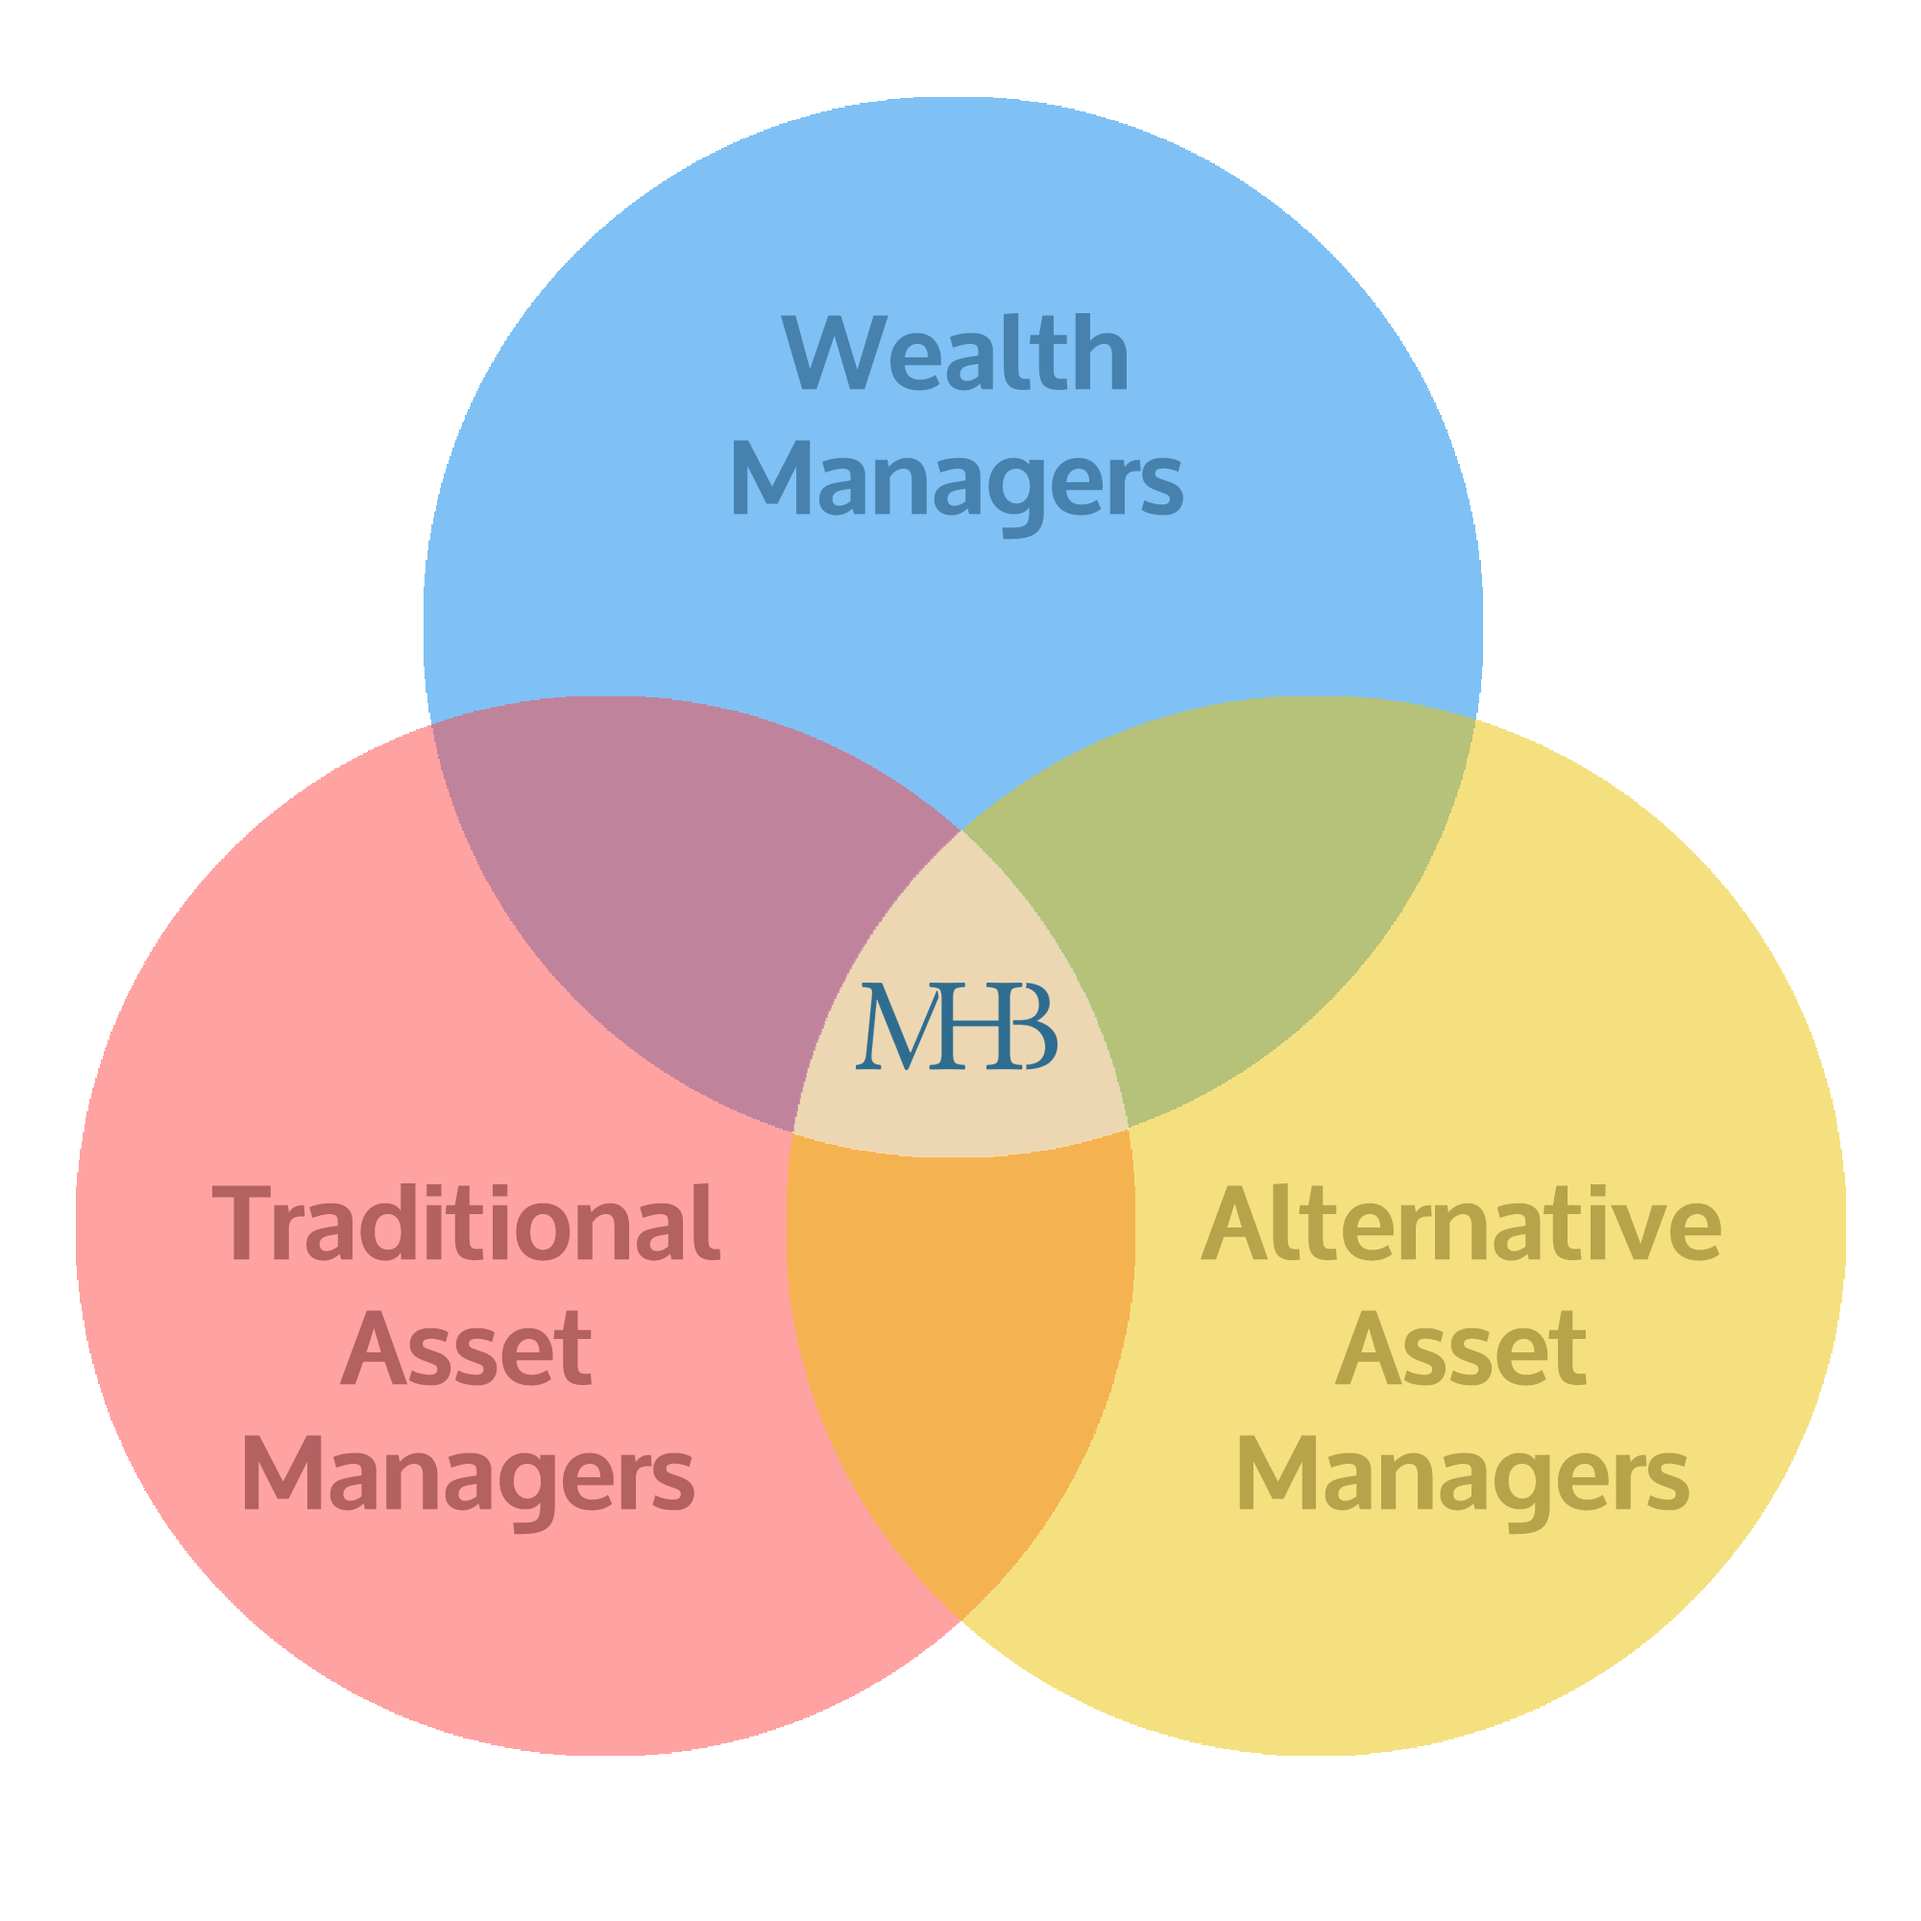
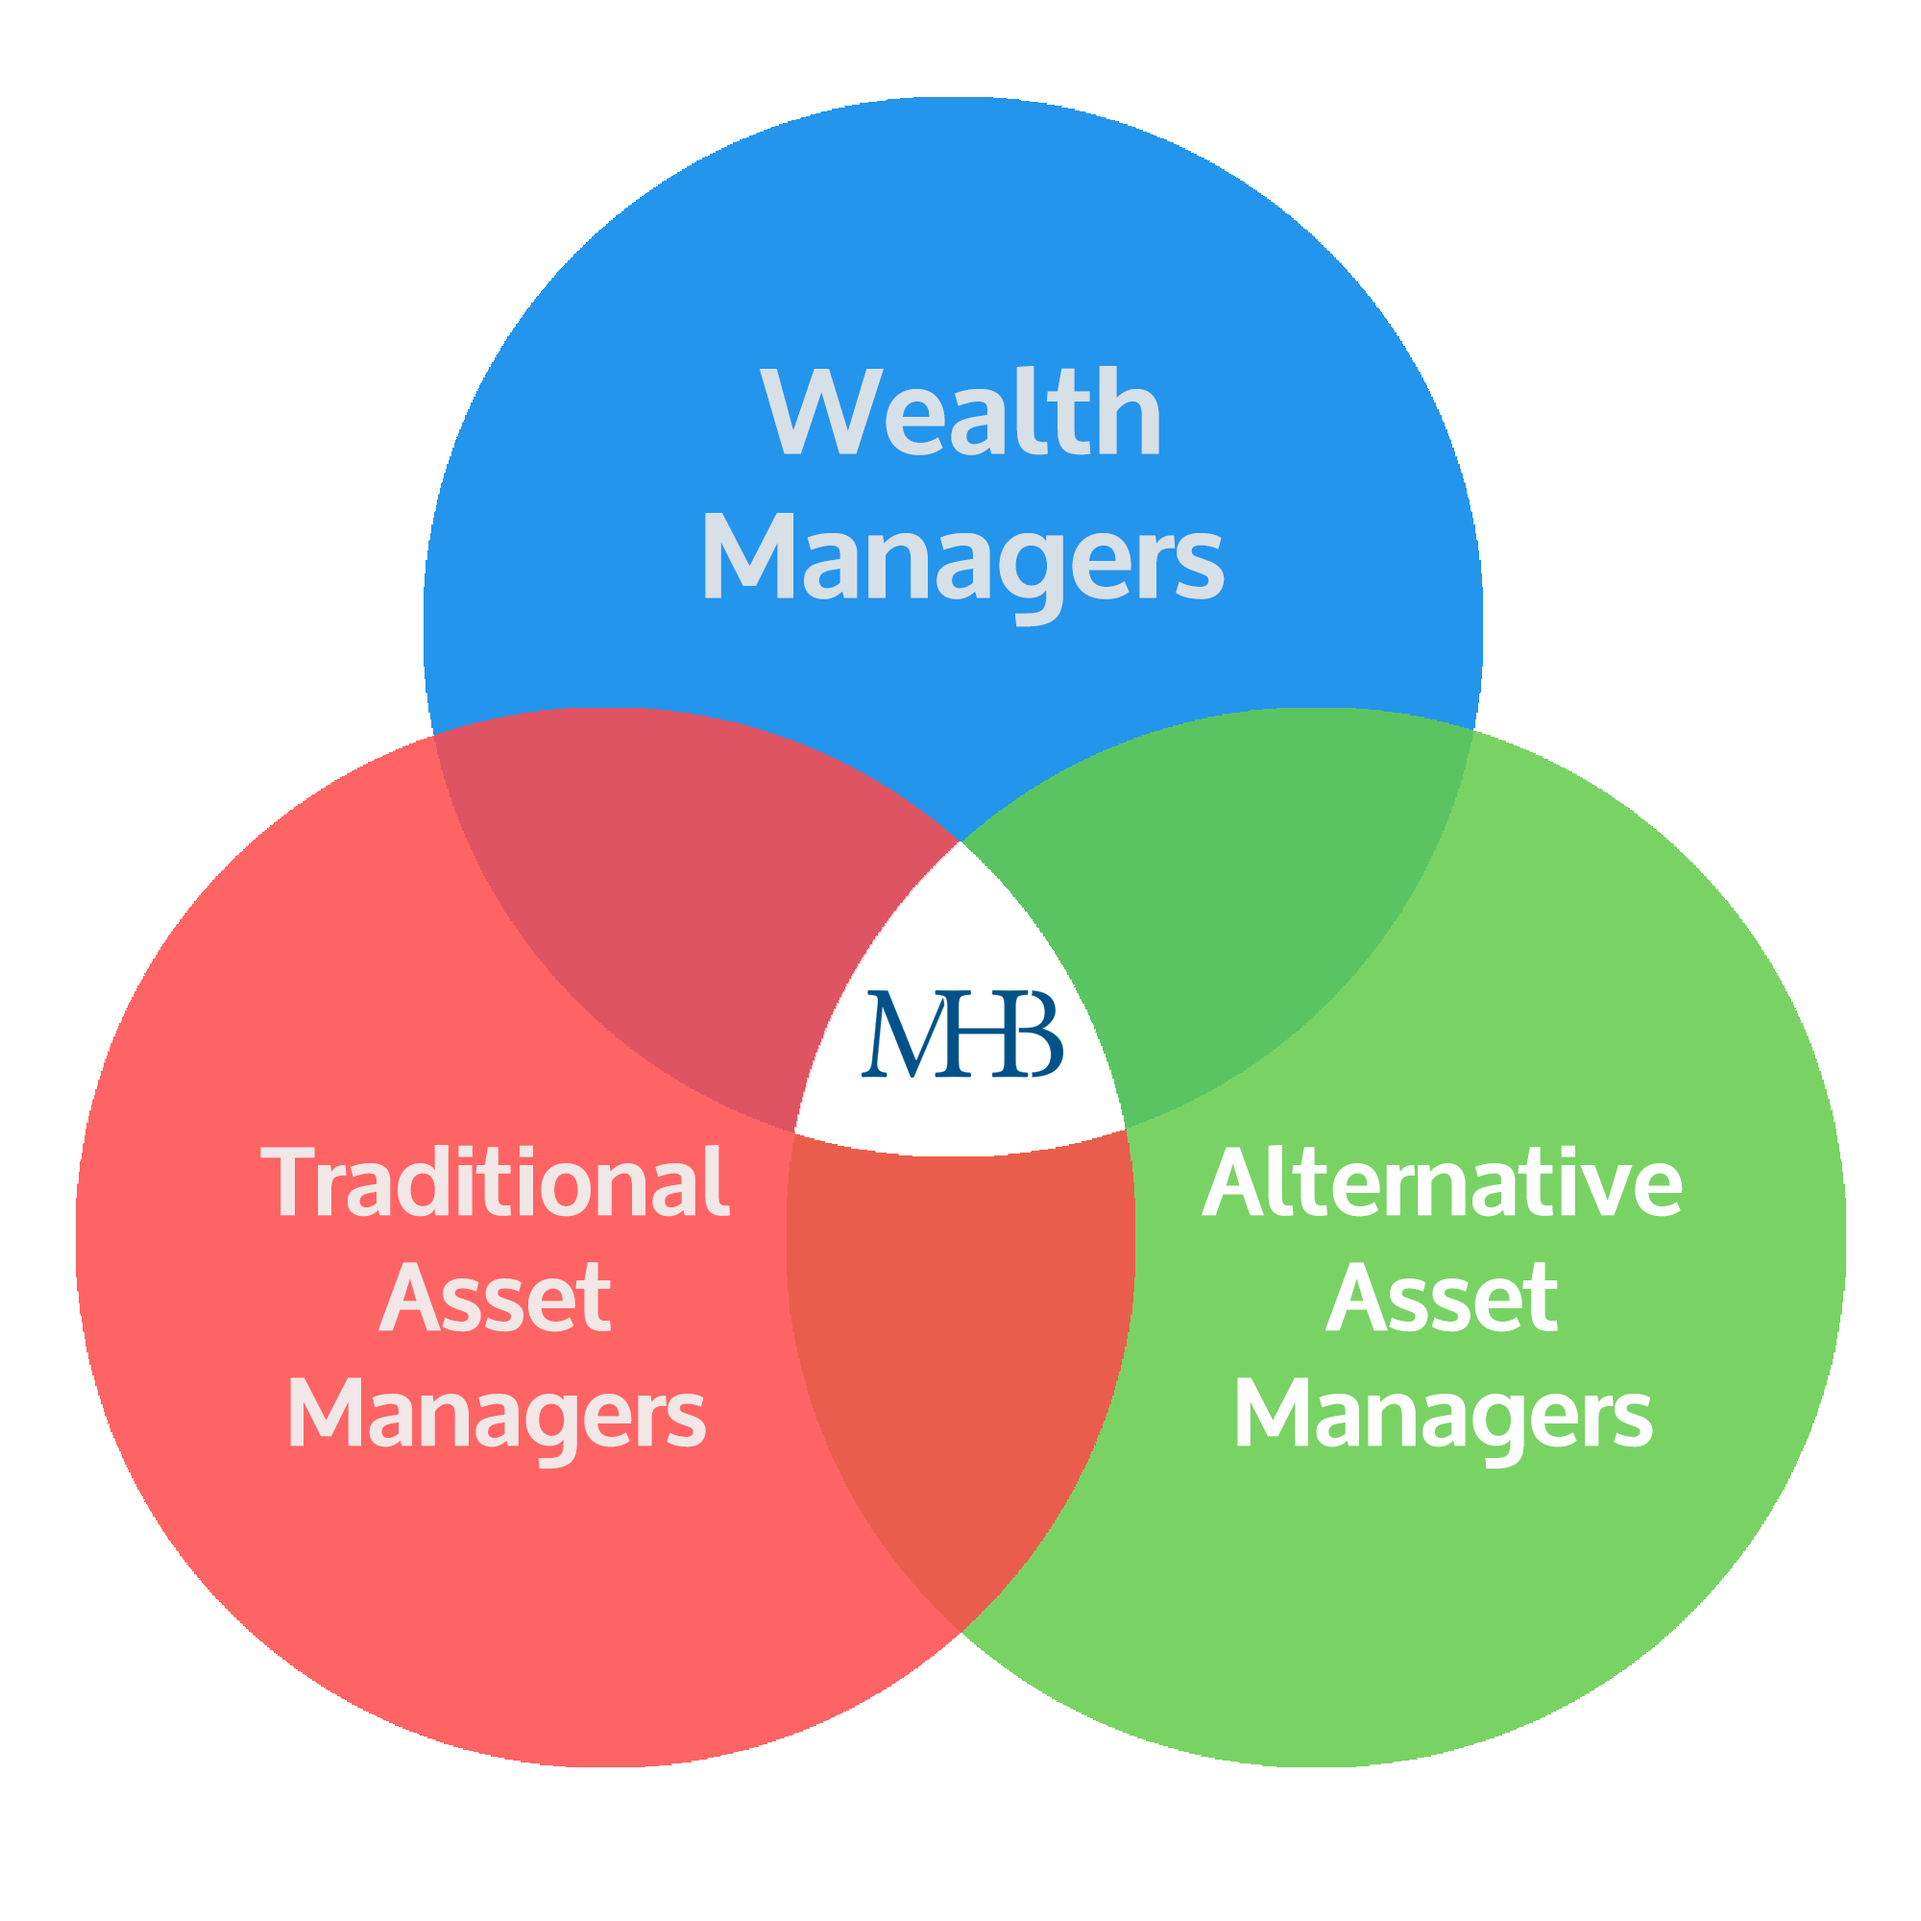
final venn fix

diff --git a/index.html b/index.html
@@ -361,7 +361,7 @@
         <section class="progress-feature__wrapper" id="id-ourClients">
             <div class="container-fluid">
                 <div class="row no-gutters">
-                    <div class="col-xl-6 progress-one__wrapper d-flex clients-section">
+                    <div class="col-xl-6 progress-one__wrapper d-flex clients-section-1">
 
                         <div class="my-auto">
                             <img src="assets/images/resources/MHBVenn3.png" class="mhb_venndiagram">

diff --git a/assets/css/style.css b/assets/css/style.css
@@ -5827,14 +5827,20 @@ html { scroll-behavior: smooth; }
 
 .mhb_venndiagram {
   display: block;
+  position: relative;
   height:auto;
   width: 50%;
   margin-left: 40%;
   margin-right: auto;
+  z-index: 2;
 }
 
-.clients-section {
-  background-color: rgb(2, 2, 2);
+.clients-section-1 {
+  background-color: rgb(34, 34, 34);
+}
+
+.clients-section-2 {
+  background-color: white;
 }
 
 .clients-list-item {
